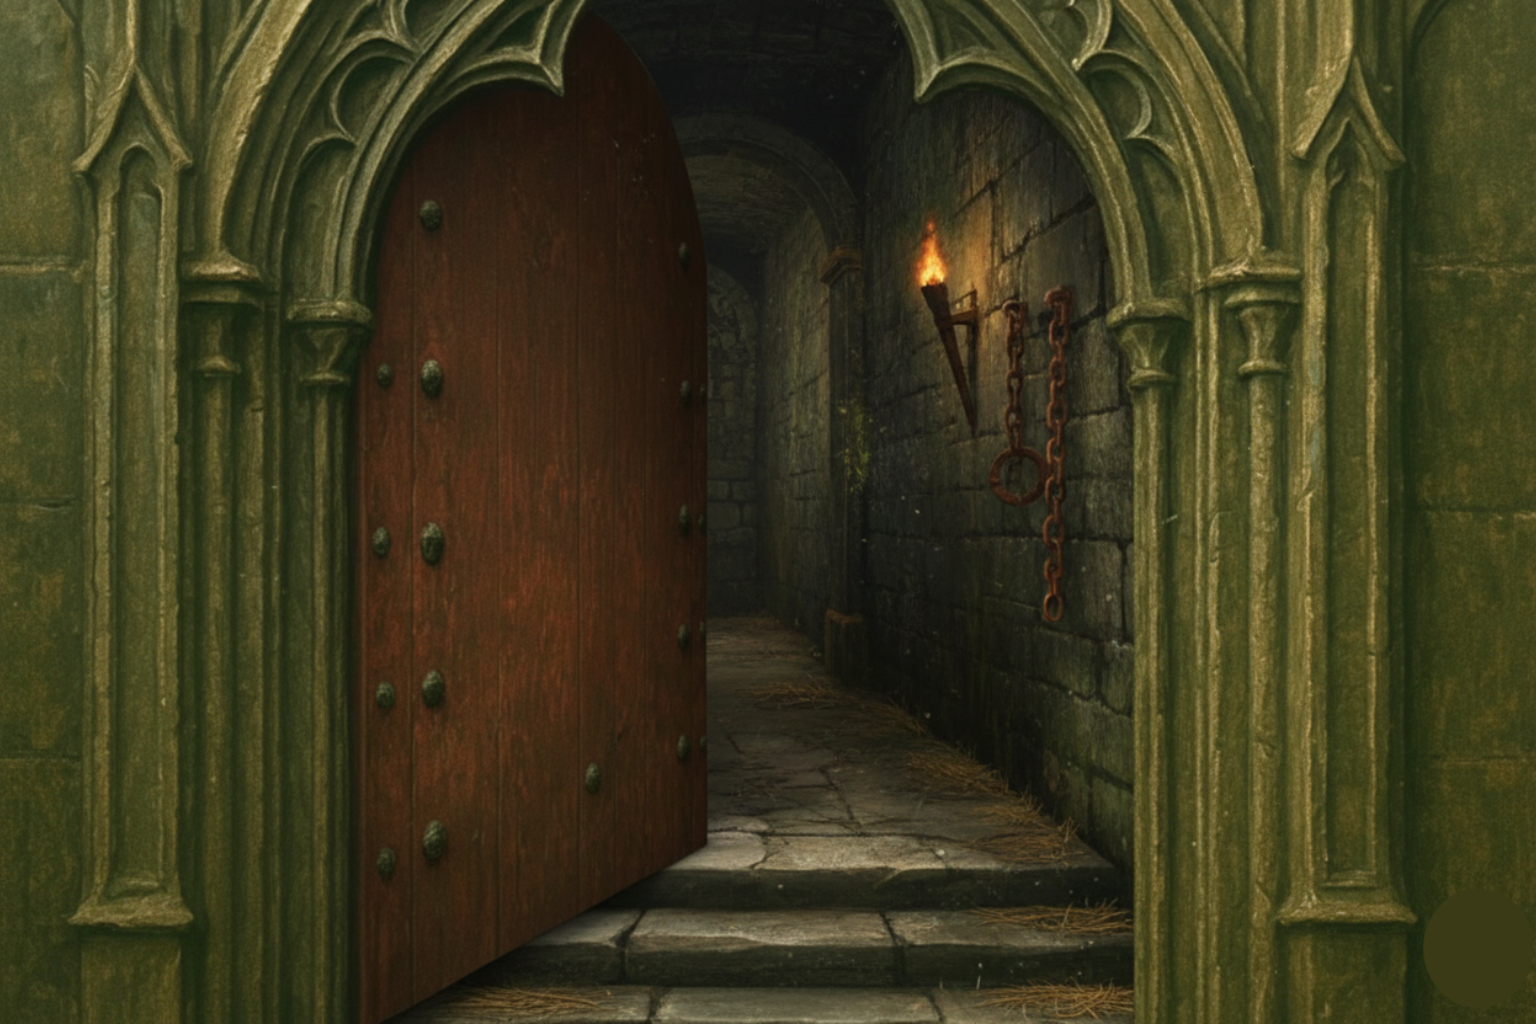
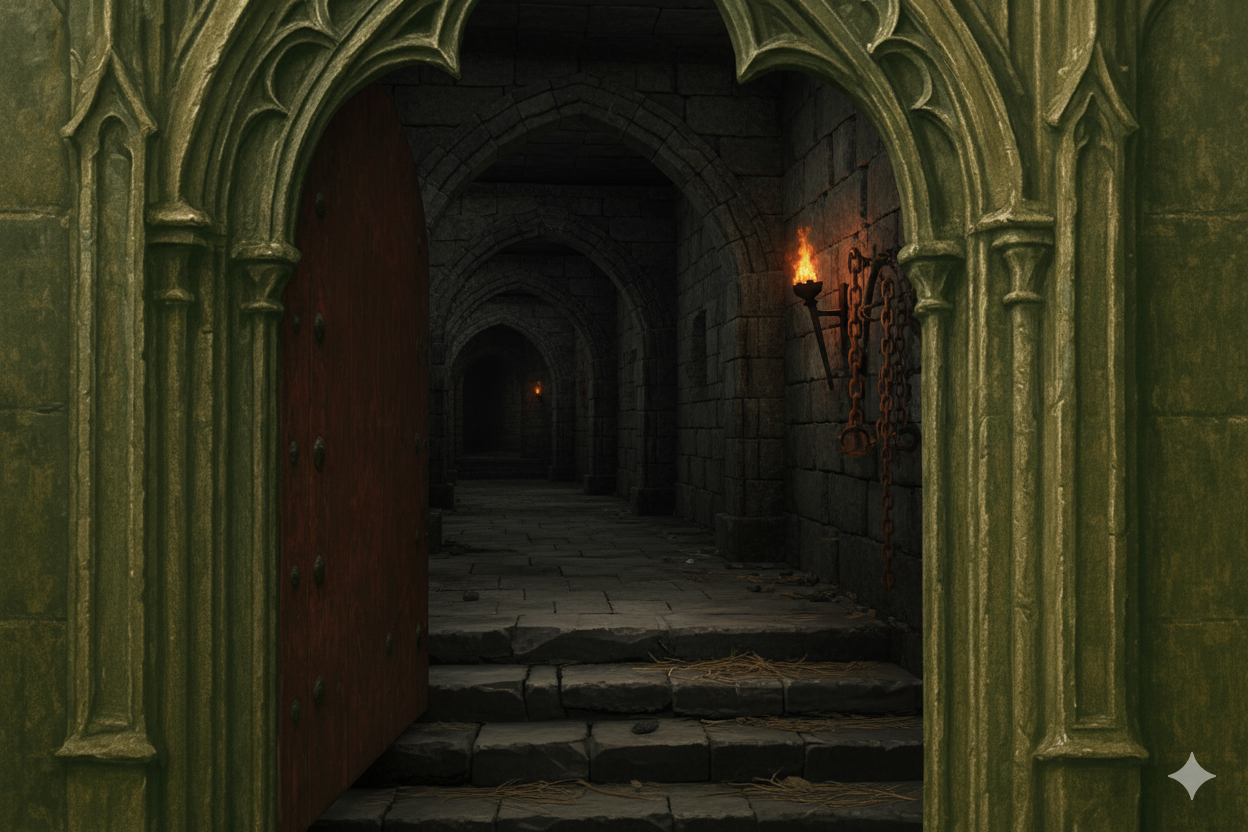
Update scoring logic and decision summaries

diff --git a/src/services/Service.ts b/src/services/Service.ts
@@ -362,7 +362,7 @@ export class Service {
         : total >= 7
           ? 'Good effort; clarify your reasoning to strengthen it.'
           : 'Try grounding your answer with clearer ideas.';
-    const decision: 'open' | 'ajar' | 'closed' =
+    const fallbackDecision: 'open' | 'ajar' | 'closed' =
       total >= 12 ? 'open' : total >= 7 ? 'ajar' : 'closed';
 
     let areteEvaluation: AreteEvaluation | null = null;
@@ -372,7 +372,9 @@ export class Service {
     } catch (err) {
       console.error('[Service.submitAnswer] evaluateAnswerWithAI failed', err);
     }
-    const finalFeedback = areteEvaluation?.feedback || fallbackFeedback;
+    const areteDecision = this.decisionFromArete(areteEvaluation ?? undefined);
+    const decision: 'open' | 'ajar' | 'closed' = areteDecision ?? fallbackDecision;
+    const finalFeedback = areteEvaluation?.feedback ?? fallbackFeedback;
 
     const response: PlayerResponse = {
       id: `resp:${Date.now()}:${Math.random().toString(36).slice(2, 8)}`,
@@ -426,12 +428,26 @@ export class Service {
   private decisionSummary(decision: 'open' | 'ajar' | 'closed'): { label: string; emoji: string } {
     switch (decision) {
       case 'open':
-        return { label: 'Door opens to wisdom', emoji: '🟢' };
+        return { label: 'Door swings open', emoji: '🟢' };
       case 'ajar':
-        return { label: 'Door is ajar', emoji: '🟡' };
+        return { label: 'Door stands ajar', emoji: '🟡' };
       default:
-        return { label: 'Door stays closed', emoji: '🔴' };
+        return { label: 'Door remains sealed', emoji: '🔴' };
     }
+  }
+
+  private decisionFromArete(arete?: AreteEvaluation | null): ('open' | 'ajar' | 'closed') | null {
+    if (!arete) {
+      return null;
+    }
+    const totalPoints = typeof arete.totalPoints === 'number' ? arete.totalPoints : 0;
+    if (arete.relevance !== 'Yes' || totalPoints <= 0) {
+      return 'closed';
+    }
+    if (totalPoints <= 55) {
+      return 'ajar';
+    }
+    return 'open';
   }
 
   async shareResponseToSubreddit(params: {
@@ -478,9 +494,17 @@ export class Service {
     }
 
     const resolvedSubreddit = await this.resolveSubredditName(subredditName);
-    const { label, emoji } = this.decisionSummary(decision);
-    const title = `${emoji} Debattle · ${totalScore}/15 — ${label}`;
+    const shareDecision = response.decision ?? decision;
+    const { label, emoji } = this.decisionSummary(shareDecision);
+    const areteShareScore = typeof response.areteEvaluation?.totalPoints === 'number'
+      ? Math.round(response.areteEvaluation.totalPoints)
+      : null;
+    const shareScoreValue = areteShareScore ?? totalScore;
+    const shareScoreMax = areteShareScore !== null ? 90 : 15;
+    const scoreDisplay = `${shareScoreValue}/${shareScoreMax}`;
+    const title = `${emoji} Debattle · ${scoreDisplay} — ${label}`;
     const sanitizedUsername = playerUsername || 'anonymous';
+    const resolvedFeedback = feedback || response.feedback || 'Feedback unavailable.';
 
     // Follow Devvit "share to subreddit" guidance: create a self-post with markdown payload.
     const bodyLines = [
@@ -488,8 +512,8 @@ export class Service {
       '',
       `**Answer by u/${sanitizedUsername}:** ${answerText}`,
       '',
-      `**Score:** ${totalScore}/15 · **Decision:** ${decision.toUpperCase()}`,
-      `**Feedback:** ${feedback}`,
+      `**Score:** ${scoreDisplay} · **Decision:** ${label}`,
+      `**Feedback:** ${resolvedFeedback}`,
       '',
       '_Shared from the Debattle experience._',
     ];
@@ -621,9 +645,15 @@ export class Service {
         if (!Number.isNaN(elapsed) && answerText) {
           try {
             const resp = await this.submitAnswer({ riddleId: post.id, playerUsername: comment.author, answerText, elapsed });
+            const hasAreteScore = typeof resp.areteEvaluation?.totalPoints === 'number';
+            const areteScoreValue = hasAreteScore
+              ? Math.round(resp.areteEvaluation!.totalPoints)
+              : resp.score.total;
+            const areteScoreMax = hasAreteScore ? 90 : 15;
+            const decisionLabel = this.decisionSummary(resp.decision).label;
             await context.reddit.submitComment({
               id: comment.id,
-              text: `🧠 Answer received. Score: **${resp.score.total}/15**. Decision: **${resp.decision}**. Feedback: _${resp.feedback}_`,
+              text: `🧠 Answer received. Score: **${areteScoreValue}/${areteScoreMax}**. Decision: **${decisionLabel}**. Feedback: _${resp.feedback}_`,
             });
           } catch (e) {
             console.error('Error scoring answer:', e);

diff --git a/src/components/home/useRoundFlow.ts b/src/components/home/useRoundFlow.ts
@@ -49,6 +49,24 @@ const getMeaningfulAnswerLength = (value: string): number => {
 };
 
 export function useRoundFlow({ context, currentUser }: UseRoundFlowOptions): UseRoundFlowResult {
+  const fireToast = (message: string, logScope: string): void => {
+    const toastFn = context?.ui?.showToast;
+    if (!toastFn) {
+      return;
+    }
+    const warnPrefix = `[useRoundFlow] ${logScope}`;
+    try {
+      const maybePromise = toastFn(message) as Promise<void> | void;
+      if (maybePromise && typeof (maybePromise as Promise<void>).catch === 'function') {
+        (maybePromise as Promise<void>).catch((err: unknown) => {
+          console.warn(warnPrefix, err);
+        });
+      }
+    } catch (err) {
+      console.warn(warnPrefix, err);
+    }
+  };
+
   const [initialQuestion] = useState<QuestionBankEntry | null>(() => {
     try {
       return getRandomQuestion();
@@ -220,13 +238,7 @@ export function useRoundFlow({ context, currentUser }: UseRoundFlowOptions): Use
           trimmedLength: trimmed.length,
           meaningfulLength,
         });
-        if (context?.ui?.showToast) {
-          try {
-            await context.ui.showToast(ANSWER_LENGTH_LIMIT_MESSAGE);
-          } catch (toastErr) {
-            console.warn('[useRoundFlow] answerForm: limit toast failed', toastErr);
-          }
-        }
+        fireToast(ANSWER_LENGTH_LIMIT_MESSAGE, 'answerForm: limit toast failed');
         return;
       }
       await handleSubmitAnswer(trimmed);
@@ -260,13 +272,7 @@ export function useRoundFlow({ context, currentUser }: UseRoundFlowOptions): Use
     }
     if (result.sharePostId) {
       console.log('[useRoundFlow] shareToSubreddit: already shared');
-      if (context?.ui?.showToast) {
-        try {
-          await context.ui.showToast('Already shared to the subreddit');
-        } catch (err) {
-          console.warn('[useRoundFlow] shareToSubreddit: toast failed', err);
-        }
-      }
+      fireToast('Already shared to the subreddit', 'shareToSubreddit: toast failed');
       return;
     }
 
@@ -279,15 +285,17 @@ export function useRoundFlow({ context, currentUser }: UseRoundFlowOptions): Use
       );
       const username = currentUser?.username || 'anonymous';
       console.log('[useRoundFlow] shareToSubreddit: submitting post');
+      const shareScoreValue = result.areteEvaluation?.totalPoints ?? result.score.total;
+      const shareFeedback = result.areteEvaluation?.feedback ?? result.feedback;
       const resp = await service.shareResponseToSubreddit({
         riddleId,
         responseId: result.responseId,
         questionText: result.questionText,
         answerText: result.answerText,
         playerUsername: username,
-        totalScore: result.score.total,
+        totalScore: shareScoreValue,
         decision: result.decision,
-        feedback: result.feedback,
+        feedback: shareFeedback,
       });
       setResult((prev) => {
         if (!prev) {
@@ -299,22 +307,10 @@ export function useRoundFlow({ context, currentUser }: UseRoundFlowOptions): Use
           sharePermalink: resp.permalink ?? prev.sharePermalink,
         };
       });
-      if (context?.ui?.showToast) {
-        try {
-          await context.ui.showToast('Shared to the community!');
-        } catch (err) {
-          console.warn('[useRoundFlow] shareToSubreddit: success toast failed', err);
-        }
-      }
+      fireToast('Shared to the community!', 'shareToSubreddit: success toast failed');
     } catch (err) {
       console.error('[useRoundFlow] shareToSubreddit: error', err);
-      if (context?.ui?.showToast) {
-        try {
-          await context.ui.showToast('Failed to share to the subreddit');
-        } catch (toastErr) {
-          console.warn('[useRoundFlow] shareToSubreddit: error toast failed', toastErr);
-        }
-      }
+      fireToast('Failed to share to the subreddit', 'shareToSubreddit: error toast failed');
     } finally {
       setIsSharing(false);
     }

diff --git a/src/components/home/RoundResultView.tsx b/src/components/home/RoundResultView.tsx
@@ -44,6 +44,21 @@ const ARETE_POINTS_ICON = {
   description: 'Arete coin reward',
 } as const;
 
+const DECISION_BACKGROUNDS: Record<RoundResult['decision'], { url: string; description: string }> = {
+  open: {
+    url: 'background_3.png',
+    description: 'Sunlit courtyard backdrop',
+  },
+  ajar: {
+    url: 'background_4.png',
+    description: 'Door standing slightly open',
+  },
+  closed: {
+    url: 'background_2.png',
+    description: 'Sealed door bathed in moonlight',
+  },
+};
+
 const SHOW_ANSWER_RIDDLE_STYLE_OVERRIDES: RiddleLayoutStyleOverrides = {
   fontSize: 32,
   letterSpacing: -1.6,
@@ -137,16 +152,17 @@ export function RoundResultView({
   const ribbonTextMaxWidth = Math.max(120, Math.round(areteRibbonWidthPx * 0.76));
   const pointsTextMaxWidth = Math.max(140, Math.round(layout.width * 0.38));
   const pointsIconSize = `${ARETE_POINTS_ICON.displaySizePx}px` as Devvit.Blocks.SizeString;
+  const background = DECISION_BACKGROUNDS[result.decision];
   return (
     <zstack width="100%" height="100%">
       <image
-        url="background_3.png"
+        url={background.url}
         width="100%"
         height="100%"
         imageWidth={1536}
         imageHeight={1024}
         resizeMode="cover"
-        description="Sunlit courtyard backdrop"
+        description={background.description}
       />
 
       <vstack width="100%" height="100%" alignment="top center" gap="none">
